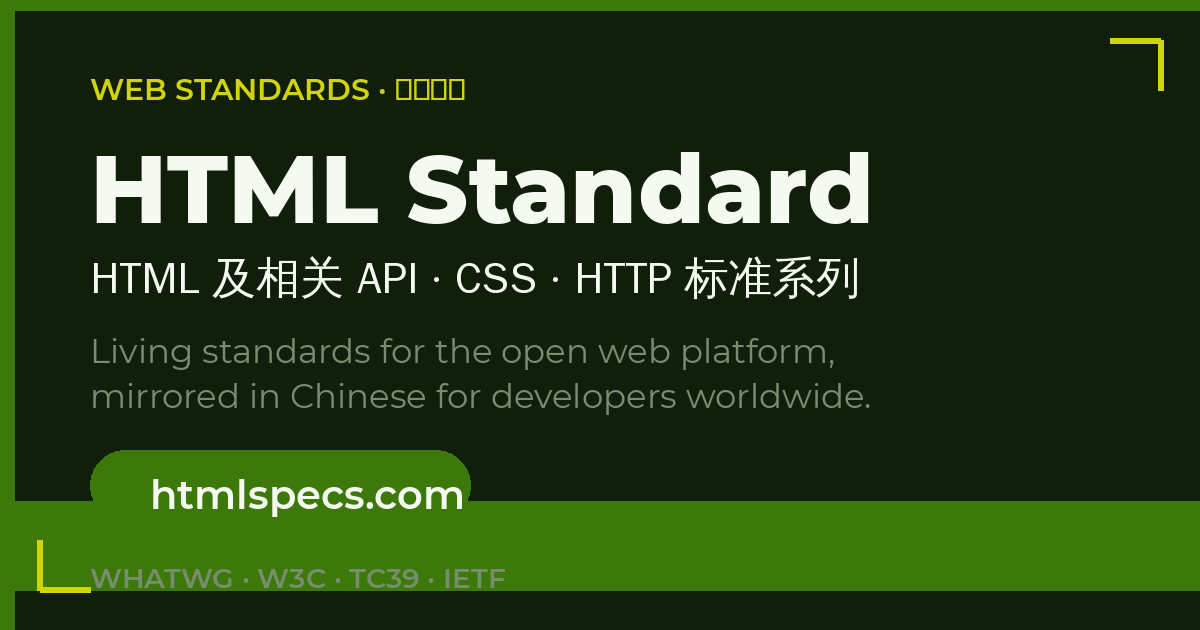
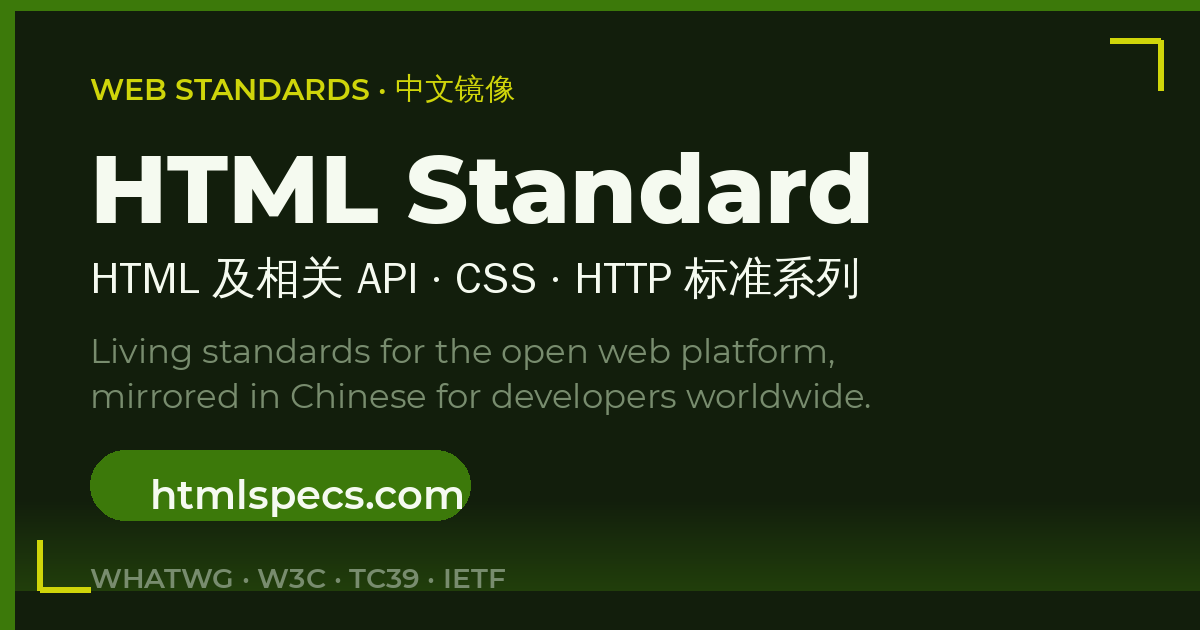
Address review: CJK-safe eyebrow, portable font paths, real alpha band
- Draw the eyebrow's Chinese run with WenQuanYi Zen Hei instead of
  Montserrat (which has no CJK glyphs and rendered 中文镜像 as boxes)
- Resolve fonts via lookup dirs (HTMLSPECS_FONT_DIR, ./fonts, ~/.fonts,
  system dirs) and output relative to the script -- no /home/paperclip
  paths hard-coded
- Apply the per-row alpha gradient that was computed but never used, so
  the bottom band fades subtly instead of drawing an opaque strip

Changed region(s): [[0.0, 0.7841, 1.0, 0.9651], [0.3083, 0.1206, 0.4317, 0.181]]

diff --git a/gen-og.py b/gen-og.py
@@ -1,5 +1,19 @@
 #!/usr/bin/env python3
-"""Generate 1200x630 social preview card for htmlspecs.com."""
+"""Generate the 1200x630 social preview card for htmlspecs.com.
+
+Reproducible from a fresh checkout:
+    1. Install Pillow:  pip install Pillow
+    2. Install fonts (Debian/Ubuntu package names):
+         - fonts-montserrat  (or place Montserrat-*.ttf in ./fonts)
+         - fonts-wqy-zenhei  (or place a CJK font in ./fonts)
+    3. Run:  python3 gen-og.py
+    4. Output: social-preview.png in the script's directory.
+
+Font lookup order (first match wins):
+    $HTMLSPECS_FONT_DIR  ->  ./fonts  ->  ~/.fonts  ->  system font dirs
+No absolute machine-specific paths are used.
+"""
+from pathlib import Path
 from PIL import Image, ImageDraw, ImageFont
 
 W, H = 1200, 630
@@ -9,55 +23,106 @@ LIGHT = (245, 250, 240)    # near-white
 MUTED = (120, 140, 110)    # muted green-grey
 ACCENT = (207, 213, 10)    # #cfd510 (CR badge yellow-green)
 
-img = Image.new("RGB", (W, H), DARK)
-d = ImageDraw.Draw(img)
+SCRIPT_DIR = Path(__file__).resolve().parent
+OUT = Path(__file__).resolve().with_name("social-preview.png")
 
-# subtle diagonal brand-green band
-for i in range(0, 90):
-    alpha = int(255 * (1 - i / 90))
-    band = (GREEN[0], GREEN[1], GREEN[2], alpha)
-    d.line([(0, H - 40 - i), (W, H - 40 - i)], fill=GREEN, width=1)
+FONT_DIRS = [
+    Path(__import__("os").environ.get("HTMLSPECS_FONT_DIR", "")),
+    SCRIPT_DIR / "fonts",
+    Path.home() / ".fonts",
+    Path("/usr/share/fonts/truetype/montserrat"),
+    Path("/usr/share/fonts/truetype/wqy"),
+    Path("/usr/share/fonts/opentype/noto"),
+]
 
-# top accent bar
-d.rectangle([0, 0, W, 10], fill=GREEN)
 
-# left vertical accent
-d.rectangle([0, 0, 14, H], fill=GREEN)
+def find_font(names, hint):
+    """Return the first existing path for any of the given font file names."""
+    for base in FONT_DIRS:
+        if not base.is_dir():
+            continue
+        for name in names:
+            p = base / name
+            if p.is_file():
+                return str(p)
+    raise FileNotFoundError(
+        f"{hint}: none of {names} found in {[str(d) for d in FONT_DIRS if d.is_dir()]}. "
+        "Install the font or set HTMLSPECS_FONT_DIR."
+    )
 
-# corner bracket motif (spec/document feel)
-bracket = 70
-d.line([(W-90, 40), (W-40, 40)], fill=ACCENT, width=6)
-d.line([(W-40, 40), (W-40, 90)], fill=ACCENT, width=6)
-d.line([(90, H-40), (40, H-40)], fill=ACCENT, width=6)
-d.line([(40, H-40), (40, H-90)], fill=ACCENT, width=6)
+
+MONT_SB = find_font(["Montserrat-SemiBold.ttf", "Montserrat-SemiBold.otf"], "Montserrat SemiBold")
+MONT_EB = find_font(["Montserrat-ExtraBold.ttf", "Montserrat-ExtraBold.otf"], "Montserrat ExtraBold")
+MONT_R  = find_font(["Montserrat-Regular.ttf", "Montserrat-Regular.otf"], "Montserrat Regular")
+# WenQuanYi Zen Hei covers the Chinese glyphs used on the card.
+WQY     = find_font(["wqy-zenhei.ttc", "wqy-zenhei.ttf", "NotoSansCJK-Regular.ttc"], "CJK font (wqy-zenhei or Noto Sans CJK)")
+
 
 def font(path, size):
     return ImageFont.truetype(path, size)
 
-mont_eb = "/home/paperclip/.fonts/Montserrat-ExtraBold.ttf"
-mont_sb = "/home/paperclip/.fonts/Montserrat-SemiBold.ttf"
-mont_r  = "/home/paperclip/.fonts/Montserrat-Regular.ttf"
-wqy     = "/usr/share/fonts/truetype/wqy/wqy-zenhei.ttc"
 
-# eyebrow
-d.text((90, 70), "WEB STANDARDS · 中文镜像", font=font(mont_sb, 30), fill=ACCENT)
+def draw_text_cjk(d, xy, english, cjk, en_font, cjk_font, fill):
+    """Draw mixed English/Chinese text, using the CJK font only for CJK runs.
 
-# headline
-d.text((90, 130), "HTML Standard", font=font(mont_eb, 96), fill=LIGHT)
+    An English-only font (Montserrat) renders CJK codepoints as empty boxes,
+    so the runs are measured and drawn separately with the appropriate fonts.
+    """
+    x, y = xy
+    d.text((x, y), english, font=en_font, fill=fill)
+    x += d.textlength(english, font=en_font)
+    d.text((x, y), cjk, font=cjk_font, fill=fill)
 
-# subhead
-d.text((90, 250), "HTML 及相关 API · CSS · HTTP 标准系列", font=font(wqy, 44), fill=LIGHT)
 
-# description
-d.text((90, 330), "Living standards for the open web platform,", font=font(mont_r, 34), fill=MUTED)
-d.text((90, 375), "mirrored in Chinese for developers worldwide.", font=font(mont_r, 34), fill=MUTED)
+def main():
+    img = Image.new("RGB", (W, H), DARK)
+    d = ImageDraw.Draw(img)
 
-# pill
-d.rounded_rectangle([90, 450, 470, 520], radius=35, fill=GREEN)
-d.text((150, 470), "htmlspecs.com", font=font(mont_sb, 40), fill=LIGHT)
+    # Subtle diagonal brand-green band: a soft fade that uses per-row alpha.
+    for i in range(0, 90):
+        alpha = int(90 * (1 - i / 90))  # strong near the bottom edge, fading up
+        rgba = (GREEN[0], GREEN[1], GREEN[2], alpha)
+        band = Image.new("RGBA", (W, 1), rgba)
+        img.paste(band, (0, H - 40 - i), band)
 
-# footer
-d.text((90, 560), "WHATWG · W3C · TC39 · IETF", font=font(mont_sb, 28), fill=MUTED)
+    d = ImageDraw.Draw(img)
 
-img.save("/home/paperclip/htmlspecs.com/social-preview.png", optimize=True)
-print("saved social-preview.png", img.size)
+    # top accent bar
+    d.rectangle([0, 0, W, 10], fill=GREEN)
+
+    # left vertical accent
+    d.rectangle([0, 0, 14, H], fill=GREEN)
+
+    # corner bracket motif (spec/document feel)
+    d.line([(W-90, 40), (W-40, 40)], fill=ACCENT, width=6)
+    d.line([(W-40, 40), (W-40, 90)], fill=ACCENT, width=6)
+    d.line([(90, H-40), (40, H-40)], fill=ACCENT, width=6)
+    d.line([(40, H-40), (40, H-90)], fill=ACCENT, width=6)
+
+    # eyebrow — English in Montserrat, Chinese in WenQuanYi Zen Hei
+    draw_text_cjk(d, (90, 70), "WEB STANDARDS · ", "中文镜像",
+                  font(MONT_SB, 30), font(WQY, 30), ACCENT)
+
+    # headline
+    d.text((90, 130), "HTML Standard", font=font(MONT_EB, 96), fill=LIGHT)
+
+    # subhead
+    d.text((90, 250), "HTML 及相关 API · CSS · HTTP 标准系列", font=font(WQY, 44), fill=LIGHT)
+
+    # description
+    d.text((90, 330), "Living standards for the open web platform,", font=font(MONT_R, 34), fill=MUTED)
+    d.text((90, 375), "mirrored in Chinese for developers worldwide.", font=font(MONT_R, 34), fill=MUTED)
+
+    # pill
+    d.rounded_rectangle([90, 450, 470, 520], radius=35, fill=GREEN)
+    d.text((150, 470), "htmlspecs.com", font=font(MONT_SB, 40), fill=LIGHT)
+
+    # footer
+    d.text((90, 560), "WHATWG · W3C · TC39 · IETF", font=font(MONT_SB, 28), fill=MUTED)
+
+    img.save(OUT, optimize=True)
+    print("saved", OUT, img.size)
+
+
+if __name__ == "__main__":
+    main()
